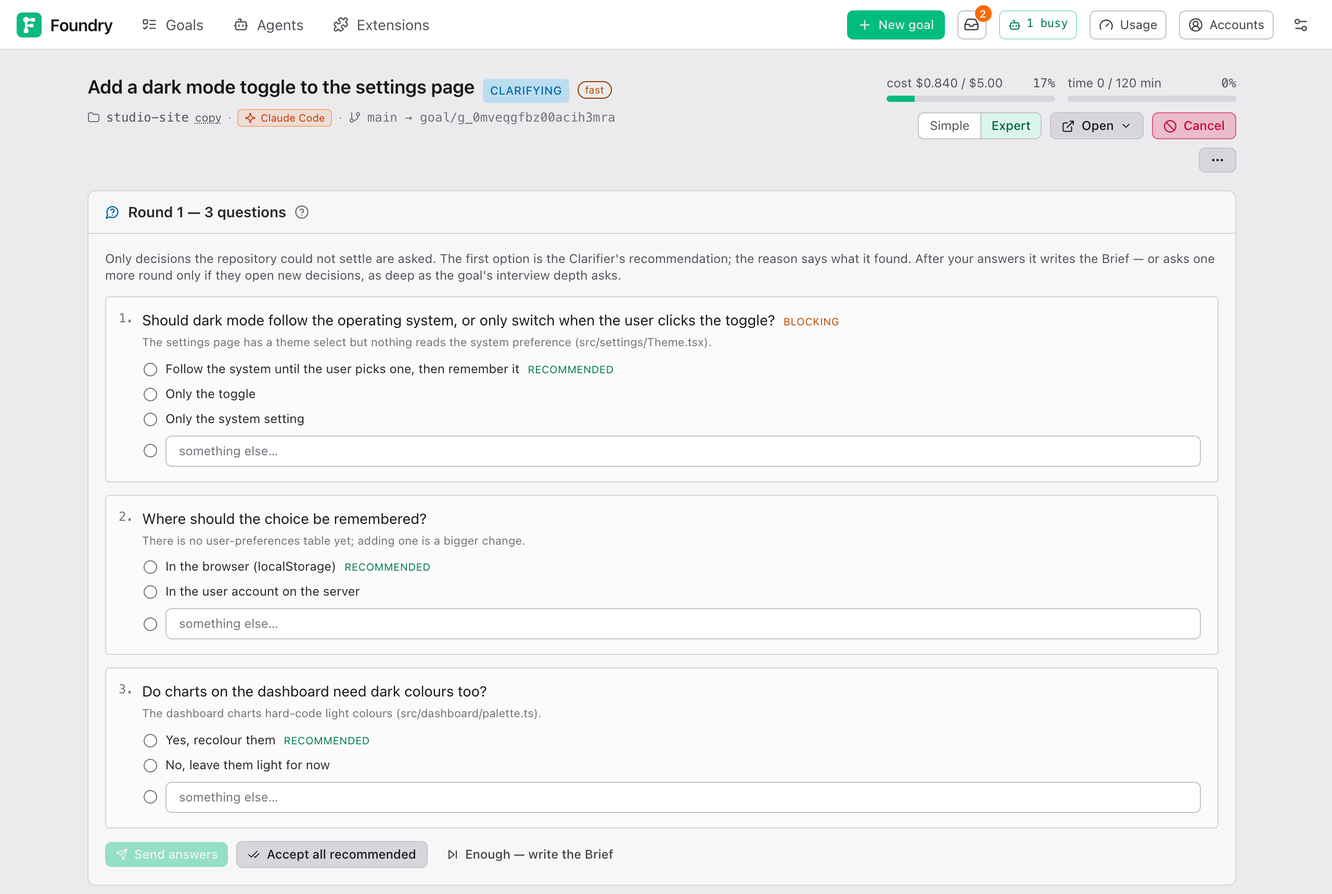
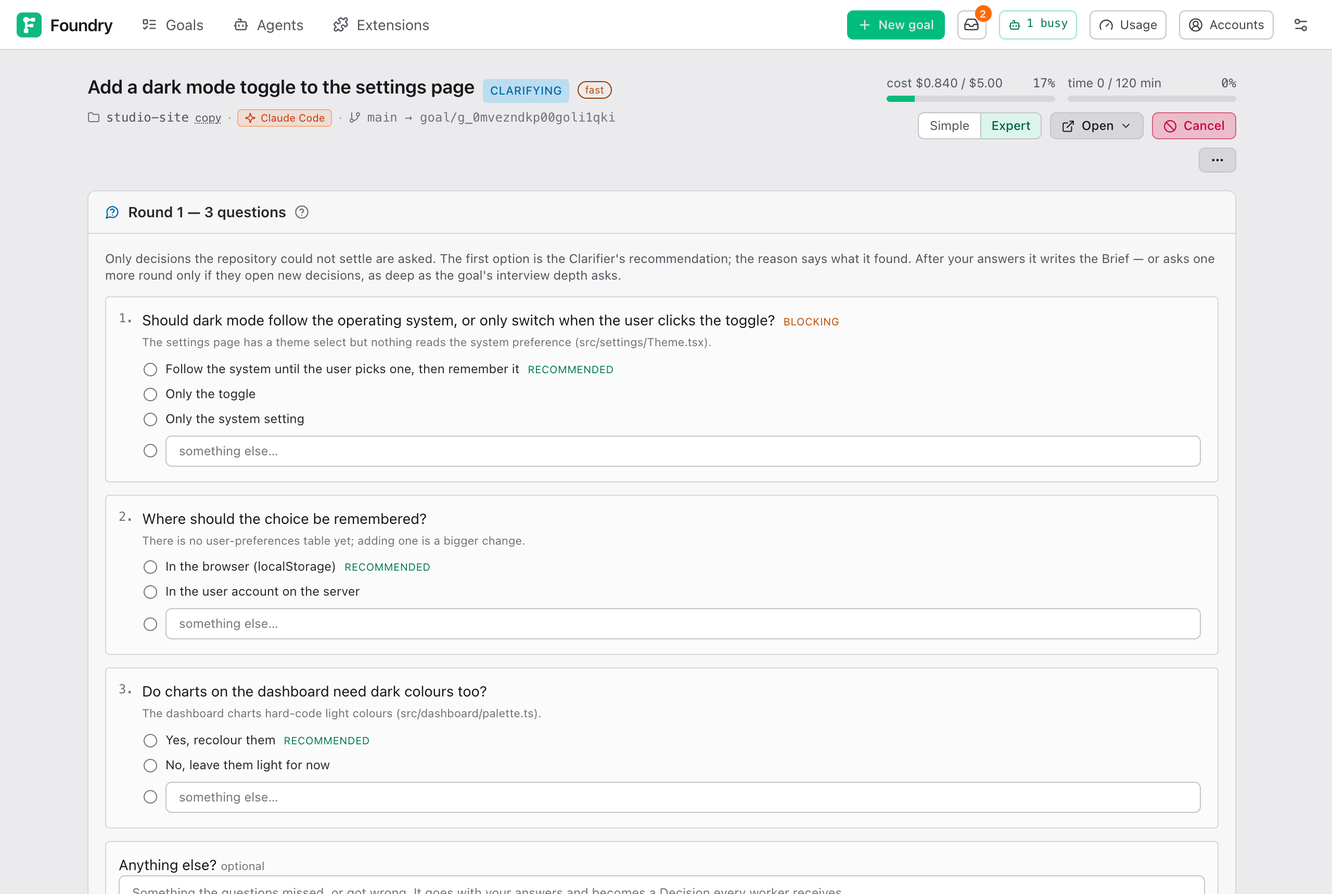
docs: notes are Decisions, in the guide, the glossary and ADR-0044
The interview and Brief pages of the guide (English and 中文) describe Anything else?, Add note and the chat button; the glossary defines Note; ADR-0044 records why a note is a Decision rather than a new channel, amending ADR-0013 and ADR-0027. The interview and Brief screenshots are re-captured from the seeded demo.

diff --git a/docs/guide/approving-the-brief.zh.md b/docs/guide/approving-the-brief.zh.md
@@ -28,7 +28,7 @@ Brief 会以你在 New goal 表单上选的视图打开。用顶部的 **Expert 
 - Brief 等你处理时，标题旁边的徽标显示 **approve brief**。
 - 标题下面：项目文件夹、goal 从哪个分支开始，以及 goal 自己的分支。
 - 有一行小字说明 Foundry 读的是你项目的哪个版本，比如 "Explored origin/main (your local main was 3 behind)"。如果它提示没有拉取远端（remote），而你知道之后别人改过项目，就按 **Re-run Clarify**。
-- **Re-run Clarify** 会丢掉这份 Brief，拉取你项目的最新版本，然后重新规划。附件、预算和交付设置都会保留。你的决定会以文字形式交给新的 Clarify：它会按这些决定来规划，不会再问一遍，但它们不会作为条目回到 **Decisions** 卡片里。它工作期间，你会回到 goal 页面。
+- **Re-run Clarify** 会丢掉这份 Brief，拉取你项目的最新版本，然后重新规划。附件、预算和交付设置都会保留。你在这个页面上输入的答案和备注会先保存；然后你的决定会以文字形式交给新的 Clarify：它会按这些决定来规划，不会再问一遍，但它们不会作为条目回到 **Decisions** 卡片里。它工作期间，你会回到 goal 页面。
 - **goal** 面板显示你最初的描述。面板角上的 **Open full**（两个斜向箭头的图标）会在更大的窗口里显示它，带 **Preview**、**Raw** 和 **Copy**。
 
 ## Understanding
@@ -86,13 +86,17 @@ Delegated goal 和 follow-up 会带着来源 goal 的 Subject 和图片开始，
 
 ## Decisions
 
-**Decisions (N)** 列出你给出的每一个答案和否决的每一个假设，包括你在访谈中的回答。每个执行者、审查员和 pull request 都会一字不差地收到它们。
+**Decisions (N)** 列出你给出的每一个答案、写下的每一条备注和否决的每一个假设，包括你在访谈中的回答和备注。每个执行者、审查员和 pull request 都会一字不差地收到它们。
 
 绿点表示计划已经考虑了这个决定。琥珀色点表示你是在计划写好之后才做的决定，所以下面的任务和检查可能还没反映它。卡片会写明有多少个 **not yet applied to the plan**。
 
+### Add note
+
+卡片底部的框，写的是没有哪个问题问到的事：一个约束、一处纠正、Foundry 弄错的地方。写好后按 **Add note**。备注和答案一样是一个决定：它随 Brief 保存（按 **Save**），每个执行者都会一字不差地收到它，**Revise with answers** 会按它重写计划，**Re-run Clarify** 会从它出发。备注旁边的 ✕ 可以删掉它。
+
 ### Revise with answers
 
-按 **Revise with answers**，让 Foundry 根据你的决定重新读一遍 Brief 和你的项目。它会提出修改：新增、修改或删除的任务，检查，Area，新的理解。这要几分钟；Claude 会话上限是 $3，Codex 使用 ChatGPT 额度，不提供美元上限。你可以先填 **notes for the AI (optional)**。
+按 **Revise with answers**，让 Foundry 根据你的决定（包括备注）重新读一遍 Brief 和你的项目。它会提出修改：新增、修改或删除的任务，检查，Area，新的理解。这要几分钟；Claude 会话上限是 $3，Codex 使用 ChatGPT 额度，不提供美元上限。
 
 提议会以列表形式出现。用 ✓ 接受单项，用 ✗ 放弃，或者按 **Accept all**。你接受之前什么都不会变。如果 Foundry 找不到要改的地方，按 **OK, mark applied**。
 
@@ -281,6 +285,7 @@ Simple view 用大白话显示同一份 Brief：
 |---|---|
 | **What I understood** | 读一读；**Open full** 图标会在更大的窗口里显示它。如果不对，就在回答问题时相应地纠正，或者切到 Expert view 去编辑。 |
 | **Please answer (N)** 或 **Questions** | 选一个答案（★ 是推荐）或者输入你自己的。标着 **needed** 的问题必须回答。风格卡片的用法和上面一样。 |
+| **Anything to add?** | 没有哪个问题问到的事：写下来，按 **Add note**。备注和你的答案一样会到达每个执行者。 |
 | **I will assume… (untick anything that is wrong)** | 把不对的取消勾选。 |
 | **What you will get (N pieces of work)** | 各项任务，按 Area 分组。要改它们，就打开 **Expert view**。 |
 | **Price & time** / **Time & limits** | Claude 提供费用与时间估算及上限；Codex 提供时间及执行限制，没有美元字段。对应字段留空表示不设上限。 |

diff --git a/docs/guide/approving-the-brief.md b/docs/guide/approving-the-brief.md
@@ -28,7 +28,7 @@ The Brief opens in the view you chose on the New goal form. Switch with **Expert
 - The badge next to the title reads **approve brief** while the Brief waits for you.
 - Under the title: the project folder, the branch the goal starts from, and the goal's own branch.
 - A small line says which version of your project Foundry read, for example "Explored origin/main (your local main was 3 behind)". If it warns that the remote was not fetched and you know others changed the project since, press **Re-run Clarify**.
-- **Re-run Clarify** throws this Brief away, fetches the latest version of your project and plans again. Attachments, budget and delivery settings are kept. Your decisions are handed to the new Clarify as text: it plans with them and does not ask again, but they do not come back as items in the **Decisions** card. You land on the goal page while it works.
+- **Re-run Clarify** throws this Brief away, fetches the latest version of your project and plans again. Attachments, budget and delivery settings are kept. Answers and notes you typed on this page are saved first; then your decisions are handed to the new Clarify as text: it plans with them and does not ask again, but they do not come back as items in the **Decisions** card. You land on the goal page while it works.
 - The **goal** panel shows your original description. **Open full**, the icon with two diagonal arrows in its corner, reads it in a larger window with **Preview**, **Raw** and **Copy**.
 
 ## Understanding
@@ -86,13 +86,17 @@ A delegated goal and a follow-up start with the Subjects of the goal they come f
 
 ## Decisions
 
-**Decisions (N)** lists every answer you gave and every assumption you rejected, including your interview answers. Every worker, reviewer and pull request receives them word for word.
+**Decisions (N)** lists every answer you gave, every note you wrote and every assumption you rejected, including your interview answers and notes. Every worker, reviewer and pull request receives them word for word.
 
 A green dot means the plan already takes the decision into account. An amber dot means you decided it after the plan was written, so the tasks and checks below may not reflect it yet. The card says how many are **not yet applied to the plan**.
 
+### Add note
+
+The box at the bottom of the card is for what no question asked: a constraint, a correction, something Foundry got wrong. Write it and press **Add note**. A note is a Decision like an answer: it is saved with the Brief (press **Save**), every worker receives it word for word, **Revise with answers** rewrites the plan for it, and a **Re-run Clarify** starts from it. The ✕ next to a note removes it.
+
 ### Revise with answers
 
-Press **Revise with answers** to have Foundry re-read the Brief and your project in the light of your decisions. It proposes changes: tasks added, changed or dropped, checks, Areas, a new understanding. This takes a few minutes. The Claude session has a $3 cap; Codex uses ChatGPT quota without a USD cap. You can add **notes for the AI (optional)** first.
+Press **Revise with answers** to have Foundry re-read the Brief and your project in the light of your decisions, notes included. It proposes changes: tasks added, changed or dropped, checks, Areas, a new understanding. This takes a few minutes. The Claude session has a $3 cap; Codex uses ChatGPT quota without a USD cap.
 
 The proposal appears as a list. Accept each item with ✓, discard it with ✗, or press **Accept all**. Nothing changes until you accept. If Foundry finds nothing to change, press **OK, mark applied**.
 
@@ -281,6 +285,7 @@ The Simple view shows the same Brief in plain words:
 |---|---|
 | **What I understood** | Read it; the **Open full** icon shows it in a larger window. If it is wrong, answer the questions accordingly or switch to Expert view to edit it. |
 | **Please answer (N)** or **Questions** | Pick an answer (★ is recommended) or type your own. Questions marked **needed** must be answered. Style cards work as above. |
+| **Anything to add?** | What no question asked: write it and press **Add note**. Notes reach every worker, like your answers. |
 | **I will assume… (untick anything that is wrong)** | Untick what is wrong. |
 | **What you will get (N pieces of work)** | The tasks, grouped by Area. To change them, open **Expert view**. |
 | **Price & time** / **Time & limits** | Claude offers cost and time estimates and limits; Codex offers time and execution limits without a dollar field. Blank means no cap for that field. |

diff --git a/CONTEXT.md b/CONTEXT.md
@@ -83,7 +83,11 @@ A statement in the Brief the system is proceeding on unless the user overrides i
 Something the system could not safely assume. A *blocking* Question must be answered before the Brief can be approved. An answer is a Decision.
 
 **Decision**
-A choice the user made on the Brief that the system must honour: the answer to a Question, or a rejected Assumption. Decisions belong to the Goal, not to a Task — every Worker, Reviewer and the pull request receive them verbatim, and a re-run Clarify starts from them instead of asking again. A Decision is *applied* once a Revise honoured it (or the user said no change was needed); changing the answer makes it pending again.
+A choice the user made on the Brief that the system must honour: the answer to a Question, a Note, or a rejected Assumption. Decisions belong to the Goal, not to a Task — every Worker, Reviewer and the pull request receive them verbatim, and a re-run Clarify starts from them instead of asking again. A Decision is *applied* once a Revise honoured it (or the user said no change was needed); changing the answer makes it pending again.
+
+**Note**
+What the user tells the system unasked: a correction, a constraint, something the Questions missed. Written with an Interview round's answers or on the Brief page, in the user's own words. A Note is a Decision in every way; it differs only in that no Question prompted it.
+_Avoid_: comment, hint (a hint goes to one Task's next Attempt; a Note belongs to the Goal)
 
 **Revise**
 The user asking the system to re-read the Brief in the light of the current Decisions: the Clarifier looks at the repository again (read-only) and proposes what the Decisions imply — changed, added or dropped Tasks, Checks and Areas, an updated understanding. The result is a Proposal accepted item by item; the Brief can still be approved with pending Decisions, it merely says so.
@@ -210,7 +214,7 @@ A named choice of model for every action — Clarify, Planner, Simple / Standard
 _Avoid_: strong / worker / cheap model, tier (the model tiers Presets replaced)
 
 **Interview**
-How Clarify talks to the human before the Brief exists: rounds of questions, each holding every decision that is askable now (its prerequisites settled), at most eight, each with the Clarifier's recommended answer first and the evidence that leaves it open. The answers reshape the next round; the Brief is written when nothing is left to ask, when the human says enough, or after a safety cap of ten rounds. Answers become Decisions. How deep the Clarifier probes is the Goal's Interview depth: 1 asks only what a wrong guess would waste, 5 every detail until nothing is left; 0 is no interview. The depth is not a number of rounds: at the default (3) a small goal gets zero rounds, from 4 on at least one. One Clarify session is resumed across rounds and by Revise; a lost session starts over with the interview so far.
+How Clarify talks to the human before the Brief exists: rounds of questions, each holding every decision that is askable now (its prerequisites settled), at most eight, each with the Clarifier's recommended answer first and the evidence that leaves it open. The answers, and a Note the human may add to a round, reshape the next round; the Brief is written when nothing is left to ask, when the human says enough, or after a safety cap of ten rounds. Answers and Notes become Decisions. How deep the Clarifier probes is the Goal's Interview depth: 1 asks only what a wrong guess would waste, 5 every detail until nothing is left; 0 is no interview. The depth is not a number of rounds: at the default (3) a small goal gets zero rounds, from 4 on at least one. One Clarify session is resumed across rounds and by Revise; a lost session starts over with the interview so far.
 
 **Self-check**
 Off by default. After each integration the engine opens the Preview in headless Chromium, screenshots it and collects console, page and network errors; the result is a goal-level Must Check (re-run at Goal Review) and the screenshot reaches the timeline and the Milestone notification. No model involved.

diff --git a/docs/guide/answering-the-interview.md b/docs/guide/answering-the-interview.md
@@ -45,6 +45,10 @@ Some questions say **follows from …**, followed by the earlier question: "ques
 
 A question marked **blocking** must be answered before **Send answers** works. Hover over the greyed-out button to see which are still open: it lists their numbers. **Accept all recommended** and **Enough — write the Brief** work even with blocking questions open.
 
+### Anything else?
+
+Under the questions, the box **Anything else?** is for what the questions missed or got wrong: "the admin role is out of scope", "keep the old login page too", "you misread the goal: it is one portal, not two". It is optional. Whatever you write there goes with your answers, whichever of the three buttons you press, and becomes a [Decision](#what-happens-to-your-answers) like an answer: the next round and the Brief take it into account, and every worker receives it word for word.
+
 ## The three buttons
 
 ### Send answers
@@ -80,7 +84,7 @@ Before the first round the card says **Reading the repository…** instead, for 
 
 ## What happens to your answers
 
-Every answer becomes a **Decision**. Decisions belong to the whole goal:
+Every answer becomes a **Decision**, and so does a note from **Anything else?**. Decisions belong to the whole goal:
 
 - They appear on the Brief page in the **Decisions** card, already applied to the plan.
 - Every worker, every reviewer and the pull request receive them word for word, and must follow them.
@@ -90,17 +94,18 @@ You can still change your mind on the Brief page: see [Approving the Brief](./ap
 
 ## From Telegram
 
-With Telegram notifications and **Answer from Telegram** on, a round arrives as several messages: a line on what to do, one message per question with its options as buttons (⭐ marks the recommended one), and a last message with **Accept all recommended**, **Send answers** and **Enough — write the Brief**.
+With Telegram notifications and **Answer from Telegram** on, a round arrives as several messages: a line on what to do, one message per question with its options as buttons (⭐ marks the recommended one), and a last message with **Accept all recommended**, **✍ Add a note…**, **Send answers** and **Enough — write the Brief**.
 
 - Tap an option to pick it. Tap another to change your mind. Nothing is sent until you press a button of the last message.
 - **✍ My own answer…**, or a reply to a question's message, gives an answer of your own.
+- **✍ Add a note…**, or a reply to the last message, is your note for the round (what the questions missed or got wrong). The button then shows it; it goes with your answers.
 - **Send answers** says which blocking questions are still open.
 - Once the round is sent, here or on the goal's page, each question shows the answer it got.
 
-See [Answering from Telegram](../operate/notifications.md#answering-from-telegram). Discord works the same way when a bot is set up, except that **✍ My own answer…** opens a form instead of waiting for a reply: see [Answering from Discord](../operate/notifications.md#answering-from-discord).
+See [Answering from Telegram](../operate/notifications.md#answering-from-telegram). Discord works the same way when a bot is set up, except that **✍ My own answer…** and **✍ Add a note…** open a form instead of waiting for a reply: see [Answering from Discord](../operate/notifications.md#answering-from-discord).
 
 ## Tips
 
 - Short answers are fine. "Yes, keep it" is a complete answer.
-- If a question shows Foundry misunderstood the goal, say so in **something else…**. It will correct its understanding.
+- If a question shows Foundry misunderstood the goal, say so in **something else…**, or in **Anything else?** when no question is about it. It will correct its understanding.
 - If you do not know, take the recommended option. You can reject assumptions and change answers on the Brief before anything is built.

diff --git a/docs/develop/adr/0044-notes-are-decisions.md b/docs/develop/adr/0044-notes-are-decisions.md
@@ -1,0 +1,48 @@
+# ADR-0044: A note from the human is a Decision, asked for or not
+
+**Status:** accepted · 2026-10-19 · amends ADR-0013 and ADR-0027
+
+## Context
+
+Before the Brief, the human could only speak when spoken to. An interview round took an answer per question, with a
+"something else…" box per question for an answer of the human's own; a round had no place for what the questions
+missed. On the Brief page, free text reached a model only as the one-off "notes for the AI" of a Revise or a task
+Draft, shown only once a Decision existed, hidden on a phone, and kept nowhere. Re-run Clarify took no words at all and
+lost the answers typed on the page but not saved.
+
+So a person who saw, in round two, that the goal had been misread, or who wanted to add "the admin role is out of
+scope", had to bend an unrelated question's answer to say it, or edit the plan by hand and hope the workers read it.
+What they wrote in the Revise box was gone after that one session.
+
+Decisions already travel everywhere such words need to go: every Worker, Reviewer and the pull request receive them
+verbatim; Revise honours them; a Re-run Clarify starts from them (ADR-0013, ADR-0027).
+
+## Decision
+
+- **A Note is a Decision.** The human's unasked words become a Decision of kind *note*, kept among the Brief's
+  questions (`kind: 'note'`, the words in `text` and again in `answer`, so every place that derives Decisions from
+  answered questions sees it unchanged). It renders to sessions as `Note from the human (unasked): …` beside the
+  answers and the rejected assumptions.
+- **Two places to write one.** An interview round has an **Anything else?** box; what it holds is recorded on the round
+  (`interview.round_answered.note`), goes to the Clarifier with the answers as a section it is told to treat as a
+  Decision, survives a lost session in the "interview so far" replay, and becomes an applied Note on the Brief when
+  it is written. The Brief page's **Decisions** card is always shown while the Brief can be edited and carries the
+  composer: **Add note** appends a pending Note, saved with the Brief like any edit; ✕ removes one. The Simple view has
+  the same composer as **Anything to add?**.
+- **Chat too.** The round's last message gets **✍ Add a note…**; a reply to that message is the note (Discord opens a
+  form). The note waits in the drafts with the round's answers and is sent with them by whichever button closes the
+  round.
+- **Re-run Clarify saves first.** The Brief page saves its unsaved edits before asking for a Re-run, so answers and
+  notes typed there reach the new Clarify as Decisions. Re-run still carries Decisions only, as text.
+- **The prompt stays immutable.** The goal prompt cannot be edited before approval: it is the record of what was asked,
+  and Follow-ups, Learnings and the pull request cite it. A Note is how the human adds to it or corrects it.
+
+## Consequences
+
+- The one-off "notes for the AI" of Revise is gone from the Decisions card: a Note is persistent and reaches Revise as a
+  pending Decision instead. A task's Draft keeps its own one-off notes field, which is about that task alone.
+- A Note on the Brief page is pending until a Revise honours it, like an answer given there; a Note written during the
+  interview is applied, because the Clarifier read it before writing the Brief.
+- The Questions card never lists a Note; the Decisions card does. Older Briefs have no Notes and read as before.
+- A Note is capped at 4000 characters per round. Nothing prevents a Note from contradicting an answer: the Clarifier and
+  the workers receive both, in order, as they would two answers.

diff --git a/docs/develop/adr/README.md b/docs/develop/adr/README.md
@@ -17,7 +17,7 @@ record is never rewritten when a later decision changes it; its status says what
 | [0010](0010-self-update-via-docker-hub-and-watchtower.md) | Self-update: Docker Hub as version source, watchtower as the docker updater | accepted · 2026-08-28 |
 | [0011](0011-progress-folders-next-to-the-repo.md) | Progress folders next to the repository | accepted · 2026-09-14 |
 | [0012](0012-milestones-previews-and-the-self-check.md) | Milestones, previews and the headless self-check | accepted · 2026-09-14 · preview amended by ADR-0021 |
-| [0013](0013-clarify-interview-in-rounds.md) | Clarify interviews the human in rounds | accepted · 2026-09-14 · amended by ADR-0027 and ADR-0028 |
+| [0013](0013-clarify-interview-in-rounds.md) | Clarify interviews the human in rounds | accepted · 2026-09-14 · amended by ADR-0027, ADR-0028 and ADR-0044 |
 | [0014](0014-model-presets-per-goal-nature.md) | Model presets per goal nature | accepted · 2026-09-24 · supersedes the tier parts of ADR-0006; amended by ADR-0018 |
 | [0015](0015-bring-merged-work-to-the-local-checkout.md) | Bring merged work to the local checkout, then tidy up | accepted · 2026-09-25 · amends the user-only base-branch rule |
 | [0016](0016-mcp-servers-allowed-per-server.md) | MCP servers: listed from Claude Code's config, installed at user scope, allowed in goals per server | accepted · 2026-09-28 · amended by ADR-0019 |
@@ -31,7 +31,7 @@ record is never rewritten when a later decision changes it; its status says what
 | [0024](0024-guided-install-and-shared-host-docker.md) | One installer for both ways to run Foundry, and the host's Docker shared on request | accepted · 2026-10-06 |
 | [0025](0025-finished-previews-may-run-in-the-checkout.md) | A finished goal's preview may run in the person's checkout | accepted · 2026-10-07 |
 | [0026](0026-tailnet-links-and-served-previews.md) | Messages link on the tailnet, and Foundry serves preview ports there | accepted · 2026-10-07 |
-| [0027](0027-interview-depth.md) | The interview has a depth, not a round count | accepted · 2026-10-07 · amends ADR-0013 |
+| [0027](0027-interview-depth.md) | The interview has a depth, not a round count | accepted · 2026-10-07 · amends ADR-0013 · amended by ADR-0044 |
 | [0028](0028-planner-writes-the-plan-once.md) | The planner writes the task plan once, in a session of its own | accepted · 2026-10-08 · amends ADR-0013 and ADR-0018 |
 | [0029](0029-vs-code-in-the-browser.md) | VS Code in the browser, behind a generated password, on loopback and the tailnet | accepted · 2026-10-08 |
 | [0030](0030-transfer-merges-goals-as-history.md) | Transfer merges goals into another Foundry as history, and unfinished ones can be reattached | accepted · 2026-10-09 |
@@ -48,3 +48,4 @@ record is never rewritten when a later decision changes it; its status says what
 | [0041](0041-deploy-web-apps.md) | Deploy: a finished goal's web app to Vercel, Netlify or Cloudflare Pages, on the person's click | accepted · 2026-10-18 · amends ADR-0003 |
 | [0042](0042-subjects-and-the-likeness-review.md) | Subjects with pictures on the Brief, and a Likeness review of each milestone | accepted · 2026-10-18 · amends ADR-0031 |
 | [0043](0043-estimate-cut-sessions-at-measured-rates.md) | A cut session's cost is estimated from its tokens at the rate its model was measured at | accepted · 2026-10-19 · amends ADR-0037 |
+| [0044](0044-notes-are-decisions.md) | A note from the human is a Decision, asked for or not: an interview round and the Brief page take one | accepted · 2026-10-19 · amends ADR-0013 and ADR-0027 |

diff --git a/docs/operate/notifications.md b/docs/operate/notifications.md
@@ -159,7 +159,7 @@ to reach your computer from the internet.
 | **Needs you**: a command outside the workspace | **Deny** | — |
 | **Have a look** (a milestone) | **Continue**, **Give feedback…** | Foundry says what it makes of it, then you **Apply** or **Drop** that |
 | **Needs you**: the delivery stopped | **Retry delivery**, **Mark as delivered…** | — |
-| **Interview round** | one message per question with its options, then **Accept all recommended**, **Send answers**, **Enough — write the Brief** | a reply to a question is your own answer |
+| **Interview round** | one message per question with its options, then **Accept all recommended**, **✍ Add a note…**, **Send answers**, **Enough — write the Brief** | a reply to a question is your own answer; a reply to the round's last message is a note (what the questions missed), sent with the answers |
 | **Brief ready** | **Approve and run…** | — |
 | **Usage pause** | **Resume now** | — |
 

diff --git a/docs/develop/adr/0013-clarify-interview-in-rounds.md b/docs/develop/adr/0013-clarify-interview-in-rounds.md
@@ -1,6 +1,6 @@
 # ADR-0013: Clarify interviews the human in rounds
 
-**Status:** accepted · 2026-09-14 · amended by ADR-0027 and ADR-0028
+**Status:** accepted · 2026-09-14 · amended by ADR-0027, ADR-0028 and ADR-0044 (a Note from the human is a Decision)
 
 ## Context
 

diff --git a/docs/develop/adr/0027-interview-depth.md b/docs/develop/adr/0027-interview-depth.md
@@ -1,6 +1,6 @@
 # ADR-0027: The interview has a depth, not a round count
 
-**Status:** accepted · 2026-10-07 · amends ADR-0013
+**Status:** accepted · 2026-10-07 · amends ADR-0013 · amended by ADR-0044 (a round takes a Note with its answers)
 
 ## Context
 
